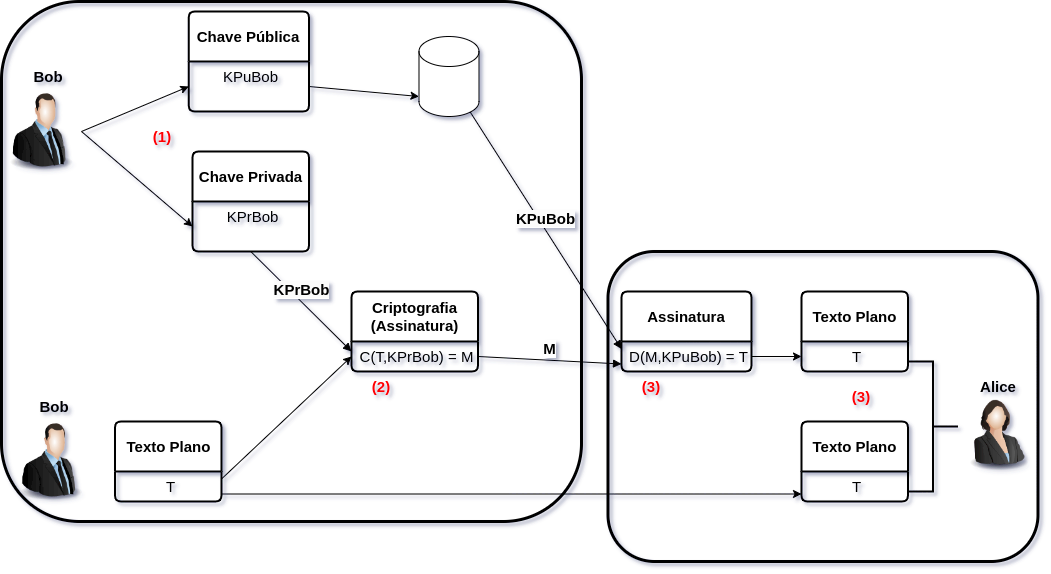
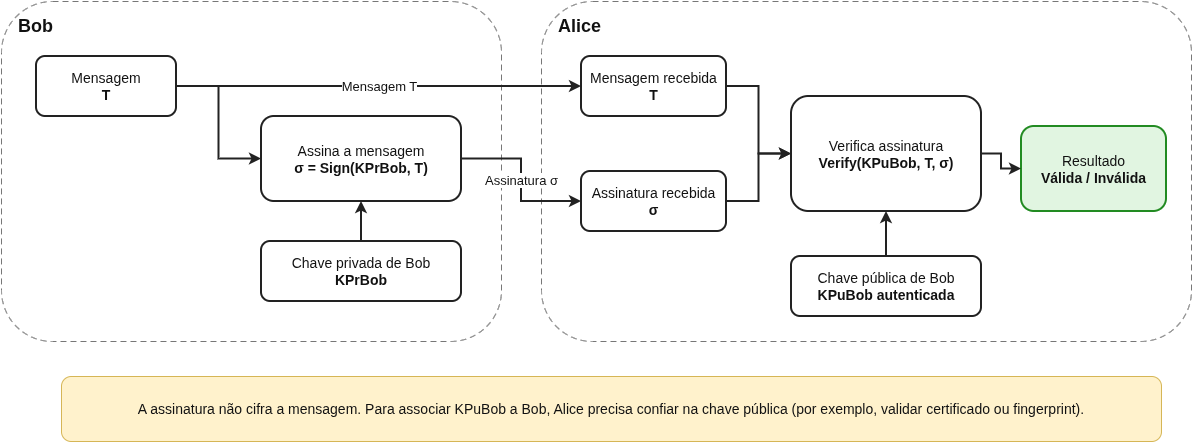
Corrige diagrama e texto de assinatura digital

diff --git a/conceitos/criptografia.tex b/conceitos/criptografia.tex
@@ -487,73 +487,70 @@ A Autenticidade está relacionada à verificação da identidade das partes envo
 
 \subsection{Assinatura Digital}
 
-A assinatura digital é um mecanismo de segurança criptográfica fundamental para garantir a integridade e a autenticidade das informações transmitidas digitalmente.\\
+Uma assinatura digital permite verificar se uma mensagem corresponde a uma assinatura produzida com a chave privada associada à chave pública usada na verificação. Ela ajuda a detectar alterações na mensagem e a autenticar a origem da assinatura, desde que a chave pública esteja autenticada. A assinatura digital não cifra a mensagem nem fornece confidencialidade.
 
-\textbf{Conceito de Assinatura Digital}\\
+\textbf{Funcionamento}
 
-A assinatura digital utiliza algoritmos de \textbf{criptografia assimétrica} para garantir que uma mensagem ou documento não tenha sido alterado desde que foi assinado e que realmente foi enviado pelo remetente.\\
+Bob calcula uma assinatura \(\sigma=\mathrm{Sign}(KPrBob,T)\) sobre a mensagem \(T\) e envia a mensagem junto com \(\sigma\). Na prática, algoritmos de assinatura costumam aplicar internamente uma função de hash; isso não significa que o resumo seja simplesmente cifrado com a chave privada. Alice verifica a assinatura com \(\mathrm{Verify}(KPuBob,T,\sigma)\), que retorna válida ou inválida.
 
-\textbf{Funcionamento}\\
-
-A Figura \ref{fig:assinatura} exemplifica o algoritmo de assinatura digital. Neste exemplo, Bob deseja enviar uma menagem para Alice e Bob deseja garantir que Alice possa verificar a autenticidade da mensagem.
+A Figura \ref{fig:assinatura} mostra esse fluxo. Alice precisa obter uma chave pública que esteja de fato associada a Bob, por exemplo validando a cadeia de certificados ou conferindo o fingerprint por um canal independente. Sem essa validação, um atacante poderia substituir a chave pública por outra e fazer Alice aceitar uma assinatura sob a chave errada. Uma verificação válida confirma a correspondência entre mensagem, assinatura e chave pública; a atribuição da identidade de Bob depende da confiança nessa chave.
 
 \begin{figure}[H]
 	\centering
-	\includegraphics[scale=0.45]{assinatura.png}
-	\caption{Funcionamento do processo de Assinatura Digital}
+	\includegraphics[scale=0.55]{assinatura.png}
+	\caption{Bob assina uma mensagem e Alice verifica a assinatura com a chave pública autenticada}
 	\label{fig:assinatura}
 \end{figure}
 
 \begin{enumerate}
-	\item \textbf{Criação de Chaves:}
-	Bob, que deseja enviar uma mensagem assinada para Alice, primeiro cria um par de chaves criptográficas: uma chave pública(KPuBob) e uma chave privada(KPrBob);
+	\item \textbf{Criação do par de chaves:}
+	Bob gera uma chave privada RSA e extrai dela a chave pública correspondente. A chave privada deve permanecer sob o controle de Bob; a chave pública deve ser autenticada antes de Alice confiar nela.
 	\begin{tcolorbox}[width=\textwidth]
-		{\small
-			\begin{verbatim}
-			$ openssl genpkey -algorithm RSA -out KPrBob.pem -pkeyopt rsa_keygen_bits:2048
-			$ openssl rsa -pubout -in KPrBob.pem -out KPuBob.pem
-			\end{verbatim}
-		}
+	{\small
+		\begin{verbatim}
+		$ umask 077
+		$ openssl genpkey -algorithm RSA -out KPrBob.pem -pkeyopt rsa_keygen_bits:3072
+		$ openssl pkey -in KPrBob.pem -pubout -out KPuBob.pem
+		\end{verbatim}
+	}
 	\end{tcolorbox}
-	\item \textbf{Assinatura da Mensagem:}
-	Bob escreve sua mensagem e, em seguida, utiliza sua chave privada para gerar uma assinatura digital. Este processo envolve a aplicação de uma função de hash na mensagem para gerar um resumo da mesma (digest). Em seguida, Bob criptografa este resumo utilizando sua chave privada. O resultado é a assinatura digital, que é enviada juntamente com a mensagem original para Alice.
+
+	\item \textbf{Assinatura da mensagem:}
+	Bob assina os bytes de \texttt{arquivo.txt} com RSA-PSS e SHA-256. Ele envia o arquivo original e \texttt{signature.bin} para Alice.
 	\begin{tcolorbox}[width=\textwidth]
-		{\small
-			\begin{verbatim}
-			$ openssl dgst -sha256 -sign KPrBob.pem -out signature.bin arquivo.txt
-			\end{verbatim}
-		}
+	{\small
+		\begin{verbatim}
+		$ openssl dgst -sha256 -sign KPrBob.pem \
+		  -sigopt rsa_padding_mode:pss \
+		  -sigopt rsa_pss_saltlen:digest \
+		  -out signature.bin arquivo.txt
+		\end{verbatim}
+	}
 	\end{tcolorbox}
-	\item \textbf{Verificação da Assinatura:}
-	Ao receber a mensagem e a assinatura digital, Alice utiliza a chave pública de Bob para verificar a assinatura. Primeiro, ela aplica a mesma função de hash na mensagem recebida para gerar um resumo. Depois, ela utiliza a chave pública de Bob para descriptografar a assinatura digital recebida, obtendo o resumo original da mensagem assinado por Bob.
-		\begin{itemize}
-			\item Se o resumo gerado por Alice e o resumo obtido através da descriptografia da assinatura coincidirem, Alice pode ter certeza de que a mensagem não foi alterada e foi realmente assinada por Bob.
-			\item Se os resumos não coincidirem, isso indica que a mensagem foi alterada no caminho ou que a assinatura não foi gerada pela chave privada de Bob.
-		\end{itemize}
+
+	\item \textbf{Verificação da assinatura:}
+	Alice verifica a assinatura sobre a cópia recebida de \texttt{arquivo.txt}, usando a chave pública autenticada de Bob e os mesmos parâmetros RSA-PSS.
 	\begin{tcolorbox}[width=\textwidth]
-		{\small
-			\begin{verbatim}
-			$ openssl dgst -sha256 -verify KPuBob.pem -signature signature.bin arquivo.txt
-			Verified OK
-			\end{verbatim}
-		}
+	{\small
+		\begin{verbatim}
+		$ openssl dgst -sha256 -verify KPuBob.pem \
+		  -sigopt rsa_padding_mode:pss \
+		  -sigopt rsa_pss_saltlen:digest \
+		  -signature signature.bin arquivo.txt
+		Verified OK
+		\end{verbatim}
+	}
 	\end{tcolorbox}
+	Uma verificação bem-sucedida indica que a assinatura corresponde ao arquivo e à chave pública fornecidos. Se a mensagem ou a assinatura tiver sido alterada, ou se for usada outra chave pública, a verificação falha.
 \end{enumerate}
 
-\textbf{Importância da Assinatura Digital}\\
-
-A assinatura digital proporciona dois aspectos cruciais de segurança:
+\textbf{O que a assinatura garante}
 
 \begin{itemize}
-	\item \textbf{Autenticidade:} Garante que a mensagem foi enviada pelo remetente legítimo (no caso, Bob).
-	\item \textbf{Integridade:} Assegura que a mensagem não foi alterada durante a transmissão.
+	\item \textbf{Integridade:} permite detectar alterações nos dados assinados.
+	\item \textbf{Autenticidade da chave:} confirma que a assinatura corresponde à chave privada associada à chave pública usada; associar essa chave a Bob exige autenticar a chave pública.
+	\item \textbf{Sem confidencialidade:} qualquer pessoa que obtenha a mensagem pode lê-la; para ocultar seu conteúdo, é necessário cifrá-la separadamente.
 \end{itemize}
-
-Em conjunto, esses aspectos permitem a confiança em comunicações eletrônicas, especialmente em transações financeiras, documentos legais e comunicação corporativa.\\
-
-\textbf{Conclusão}\\
-
-A assinatura digital é um componente vital na segurança da informação, oferecendo uma maneira robusta de verificar a integridade e a autenticidade de dados digitais. No exemplo de Bob e Alice, vimos como a criptografia assimétrica é utilizada para gerar e verificar assinaturas digitais, garantindo a segurança nas comunicações digitais.
 
 \pagebreak
 
